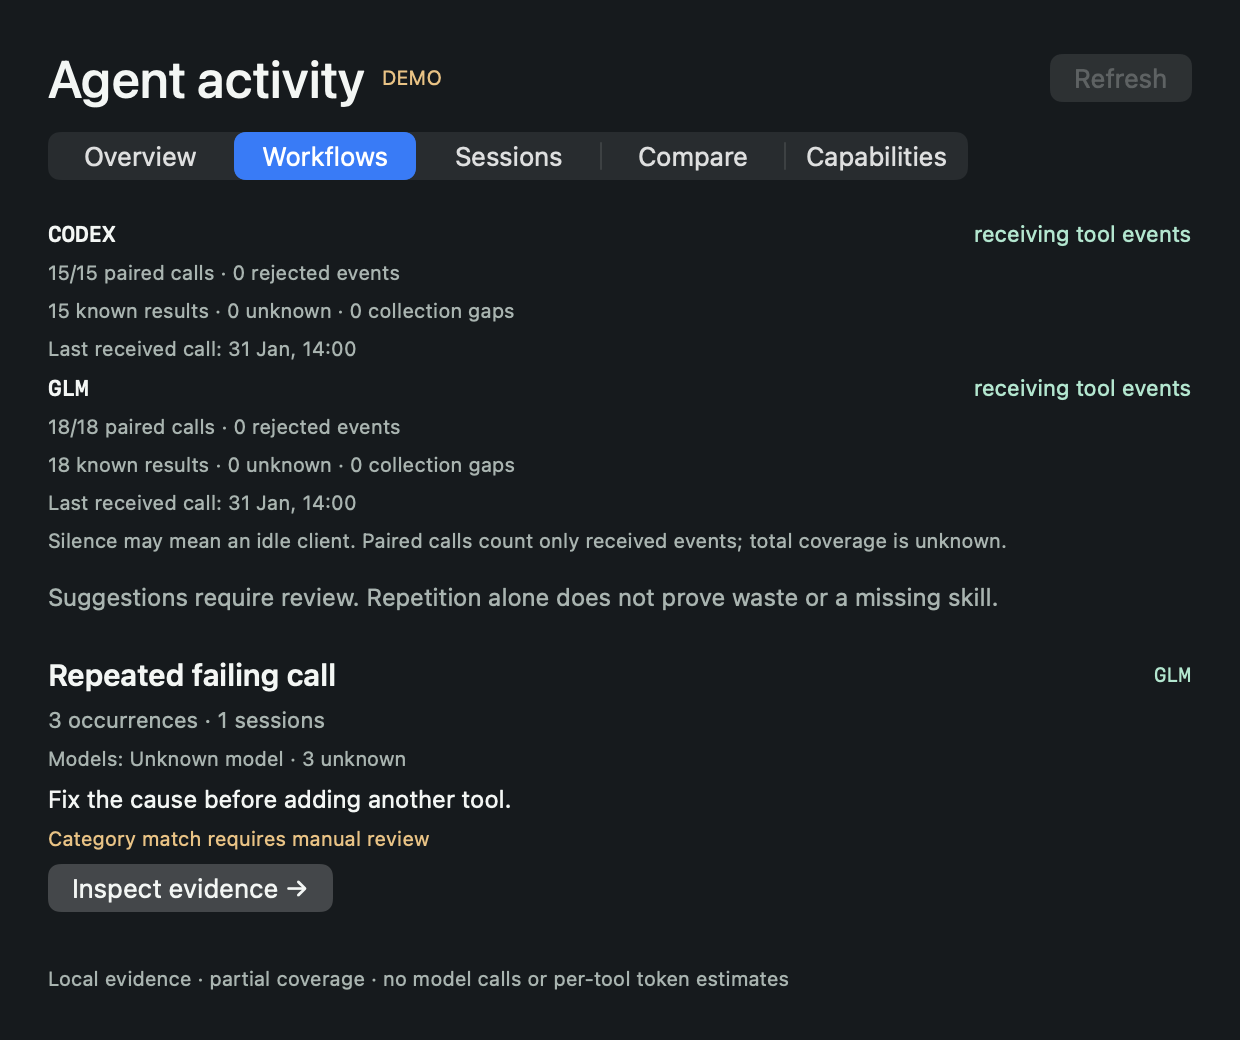
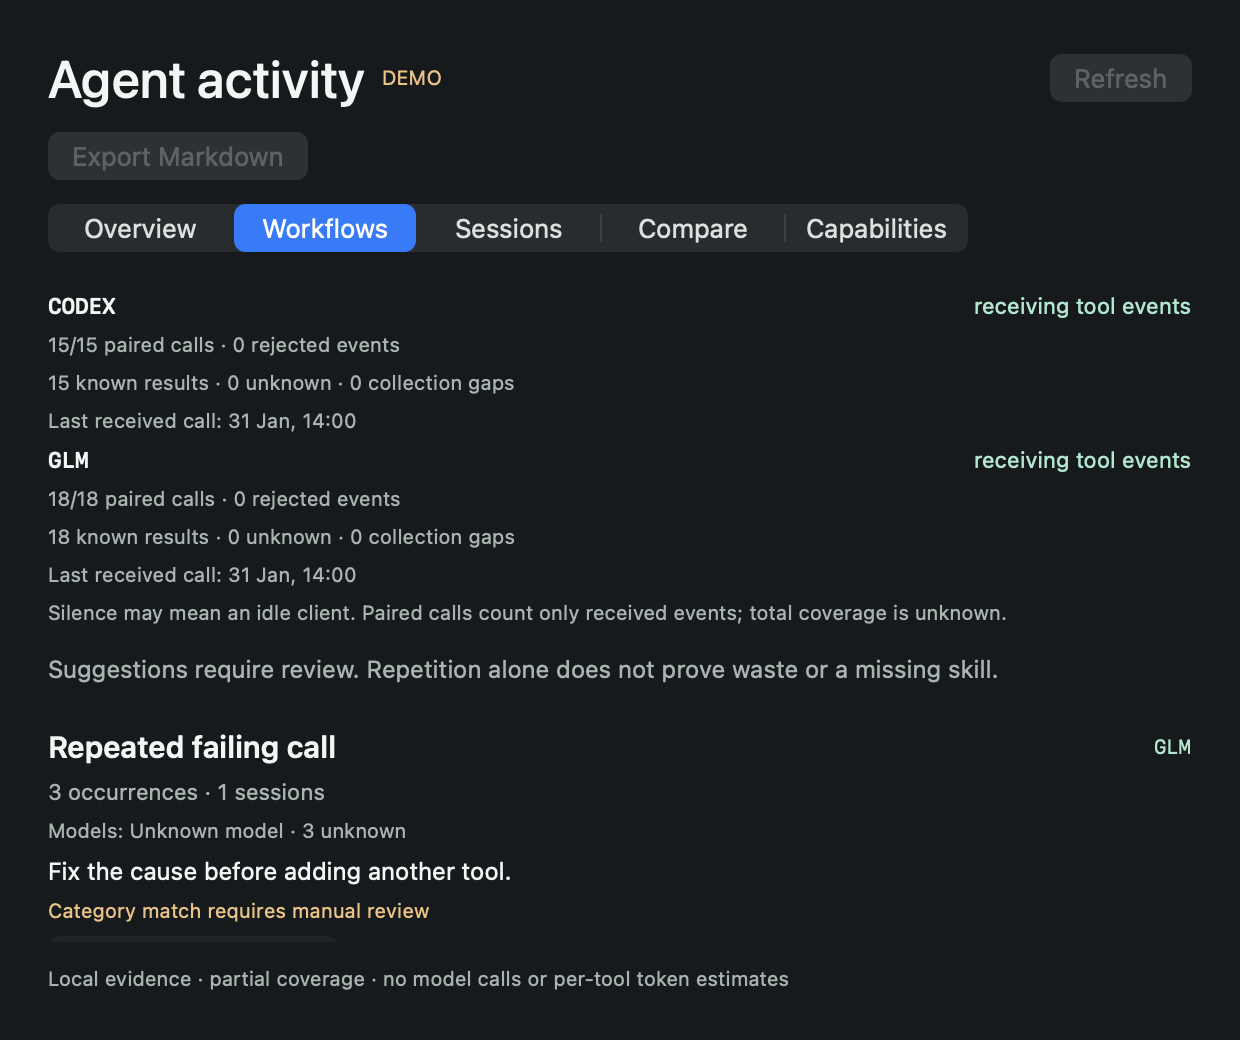
Document verified v0.7.0 packages and shared improvement experiment; refresh demo evidence

diff --git a/docs/QA.md b/docs/QA.md
@@ -1,8 +1,20 @@
+## 0.7.0 delivered verification · 2026-10-06
+
+157 Python tests pass. [Source Checks 37505993079](https://github.com/Lobodagram/agent-pulse/actions/runs/37505993079) passed Linux/macOS/Windows; [tagged package/publication 37506293357](https://github.com/Lobodagram/agent-pulse/actions/runs/37506293357) passed Mac ARM64/Intel and Windows x64 at 04ae1c35bf3fdbdf0472cb10f66458dba60903ac. The tag preserves the tested code; subsequent main-only evidence/screenshots updates do not replace it.
+
+All three [0.7.0 archives](https://github.com/Lobodagram/agent-pulse/releases/tag/v0.7.0) were downloaded and matched SHA256SUMS. Runtime/notices and archive-path checks passed; Mac embedded versions are 0.7.0. Windows binary execution/version inspection on this Mac is not claimed. Downloaded ARM64 passed strict/deep signature, strict two-second hook/journal/five-tool MCP acceptance, the 15-case own-widget matrix and EN/RU model fixtures. Minimum Workflows/Capabilities renders use labeled DEMO data; changed renders inspected.
+
+Verified 0.7.0 build 16 installed: one production instance after duplicate launch, previous version preserved, configuration byte-stable, observer path unchanged. `ditto` preserved signed bundle metadata; an initial generic-copy staging bundle was rejected by the signature gate before live replacement. No peer launch/runtime/profile/trust change, model call or permission change. Installed live UI clicks and physical Windows DPI/Intel charts/Spaces/multiple displays/fullscreen/sleep-wake remain open.
+
+The shared skill/check/handoff experiment has a real local baseline and exact source-tree digest, but no comparable accepted after-period yet. Current native evidence does not confirm the new skill's invocation by either client. No synthetic production events or historical attribution backfill. Read-only Markdown pack, finding decision lifecycle and equal-window rechecks are mechanics-tested; effectiveness and subscription savings remain unknown. Main analytics-goal assessment stays 7/10.
+
+157 тестов и CI трёх платформ прошли. Три скачанных архива сверены, ARM64 проверен и установлен: один экземпляр, настройки и прежняя версия сохранены. Общий скилл доступен через общий контекст; применение GLM и эффект экономии пока не подтверждены. Демонстрационные проверки не заменяют реальную приёмку и полный охват агентов.
+
 0.7.0 platform correction: first source CI failed the Russian CLI Markdown test on Windows (legacy output encoding); Linux passed, Mac was cancelled by matrix fail-fast. CLI/MCP now emit explicit UTF-8, fixture exports decode UTF-8, source helper reads UTF-8. A legacy-cp1252 regression test exercises both CLI and MCP. Failed source commit remains in history; no release tag was created for it.
 
 ## 0.7.0 source verification · 2026-10-06
 
-156 Python tests pass on bundled Python 3.12. Source helper exports 102 allowlisted files, validates Python syntax/local links/privacy and produces a validated handoff. Mac source compile and own 15-case widget matrix, EN/RU model-history fixtures pass. Shared skill frontmatter/path checks pass with a stdlib fallback; bundled skill validator cannot import PyYAML (no dependency installed). Actual baseline/experiment and private shared skill are excluded from public export. Package/native/CI acceptance remains a separate final gate, recorded when complete. No model calls or peer runtime changes.
+157 Python tests pass on bundled Python 3.12. Source helper exports 102 allowlisted files, validates Python syntax/local links/privacy and produces a validated handoff. Mac source compile and own 15-case widget matrix, EN/RU model-history fixtures pass. Shared skill frontmatter/path checks pass with a stdlib fallback; bundled skill validator cannot import PyYAML (no dependency installed). Actual baseline/experiment and private shared skill are excluded from public export. Package/native/CI acceptance remains a separate final gate, recorded when complete. No model calls or peer runtime changes.
 
 # Verification — 2026-10-06 / Проверка
 

diff --git a/docs/AUDIT.ru.md b/docs/AUDIT.ru.md
@@ -1,6 +1,6 @@
 ## Улучшение цикла в 0.7.0 · 2026-10-06
 
-Добавлены ручные решения по находкам и перепроверка равных окон, строгий учёт shell-чтений скиллов, пространства MCP, отчёт Markdown и общая команда проверки/передачи. 156 тестов проходят, включая ограничения провайдера, ложные чтения, неизвестные результаты, исчезновение находки, CLI-экспорт и проверку метаданных. Это укрепляет переход от анализа к проверяемому изменению. Готовность относительно главной цели остаётся 7/10 до сопоставимых реальных принятых задач и расширения подтверждённого покрытия клиентов/моделей. Общий скилл и скрипт — эксперимент, не доказательство экономии. Проверки Mac, пакетов и CI — отдельные этапы; окончательные результаты в QA. Предыдущие оценки ниже исторические.
+Добавлены ручные решения по находкам и перепроверка равных окон, строгий учёт shell-чтений скиллов, пространства MCP, отчёт Markdown и общая команда проверки/передачи. 157 тестов проходят, включая ограничения провайдера, ложные чтения, неизвестные результаты, исчезновение находки, CLI-экспорт и проверку метаданных. Это укрепляет переход от анализа к проверяемому изменению. Готовность относительно главной цели остаётся 7/10 до сопоставимых реальных принятых задач и расширения подтверждённого покрытия клиентов/моделей. Общий скилл и скрипт — эксперимент, не доказательство экономии. Проверки Mac, пакетов и CI — отдельные этапы; окончательные результаты в QA. Предыдущие оценки ниже исторические.
 
 # Аудит готовности аналитики · 2026-10-06
 

diff --git a/docs/AUDIT.md b/docs/AUDIT.md
@@ -1,6 +1,6 @@
 ## 0.7.0 improvement-loop update · 2026-10-06
 
-Manual finding decisions and equal-window rechecks, strict registered shell-read attribution, namespace counters, human Markdown packs and consolidated source/handoff checks are implemented. Mechanics tests pass (156), including provider scopes, reader false positives, partial outcomes, recheck absence/unknowns, CLI export and metadata validation. These additions improve the route from evidence to a reviewed change. Main-goal readiness remains 7/10 until comparable accepted real tasks demonstrate effectiveness and native client/model coverage is strengthened. A newly created shared helper/skill is an experiment, not proof of savings. Native Mac fixture/package checks and platform CI are separate gates; see QA for final delivery evidence. Prior assessments below are historical.
+Manual finding decisions and equal-window rechecks, strict registered shell-read attribution, namespace counters, human Markdown packs and consolidated source/handoff checks are implemented. Mechanics tests pass (157), including provider scopes, reader false positives, partial outcomes, recheck absence/unknowns, CLI export and metadata validation. These additions improve the route from evidence to a reviewed change. Main-goal readiness remains 7/10 until comparable accepted real tasks demonstrate effectiveness and native client/model coverage is strengthened. A newly created shared helper/skill is an experiment, not proof of savings. Native Mac fixture/package checks and platform CI are separate gates; see QA for final delivery evidence. Prior assessments below are historical.
 
 # Analytics readiness audit · 2026-10-06
 
